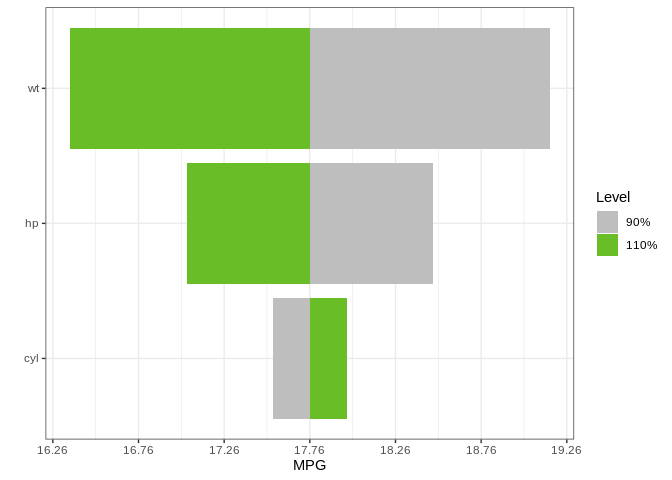
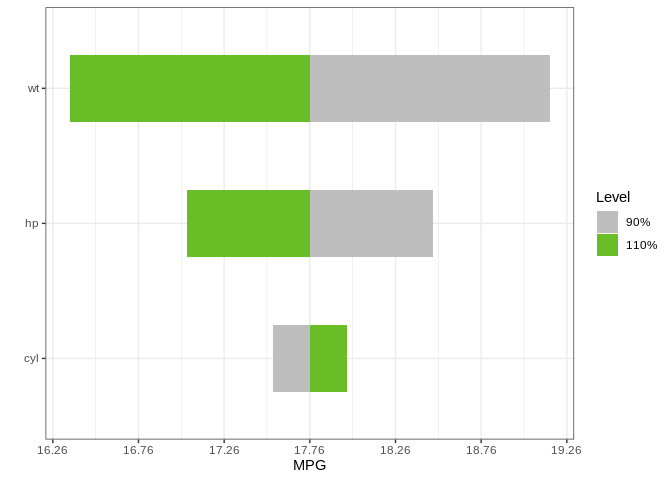
Automatic build of README.md

diff --git a/README.md b/README.md
@@ -22,7 +22,8 @@ tornado
 Installation
 ------------
 
-You can also install the development version of `lhs` from github with:
+You can also install the development version of `tornado` from github
+with:
 
 ``` r
 if (!require(devtools)) install.packages("devtools")
@@ -37,7 +38,7 @@ Quick Start - Torndao Plots
 ``` r
 lm1 <- lm(mpg ~ cyl*wt*hp, data = mtcars)
 torn1 <- tornado(lm1, type = "PercentChange", alpha = 0.10)
-plot(torn1, xlabel = "MPG")
+plot(torn1, xlabel = "MPG", geom_bar_control = list(width = 0.5))
 ```
 
 ![](man/figures/random-1.png)
@@ -96,18 +97,18 @@ plot(torn4, xlabel = "Risk", geom_bar_control = list(width = 0.5))
 The `plot` method can also return a ggplot object
 
 ``` r
-  mydat <- mtcars
-  mydat$am <- factor(mydat$am)
-  mydat$vs <- factor(mydat$vs)
-  mydat$cyl <- factor(mydat$cyl)
-  mydat$gear <- factor(mydat$gear)
-  mydat$carb <- factor(mydat$carb)
+mydat <- mtcars
+mydat$am <- factor(mydat$am)
+mydat$vs <- factor(mydat$vs)
+mydat$cyl <- factor(mydat$cyl)
+mydat$gear <- factor(mydat$gear)
+mydat$carb <- factor(mydat$carb)
 
-  gtest <- caret::train(x = subset(mydat, select = -vs), y = mydat$vs, method = "rf")
-  torn <- tornado(gtest, type = "percentiles", alpha = 0.10, class_number = 1)
-  g <- plot(torn, plot = FALSE, xlabel = "Probability of Class V-shaped Engine")
-  g <- g + ggtitle("Classifier caret::train randomforest, 90-110% of the mean in each variable")
-  plot(g)
+gtest <- caret::train(x = subset(mydat, select = -vs), y = mydat$vs, method = "rf")
+torn <- tornado(gtest, type = "percentiles", alpha = 0.10, class_number = 1)
+g <- plot(torn, plot = FALSE, xlabel = "Probability of Class V-shaped Engine", geom_bar_control = list(width = 0.5))
+g <- g + ggtitle("Classifier caret::train randomforest, 90-110% of the mean in each variable")
+plot(g)
 ```
 
 ![](man/figures/train_section-1.png)
